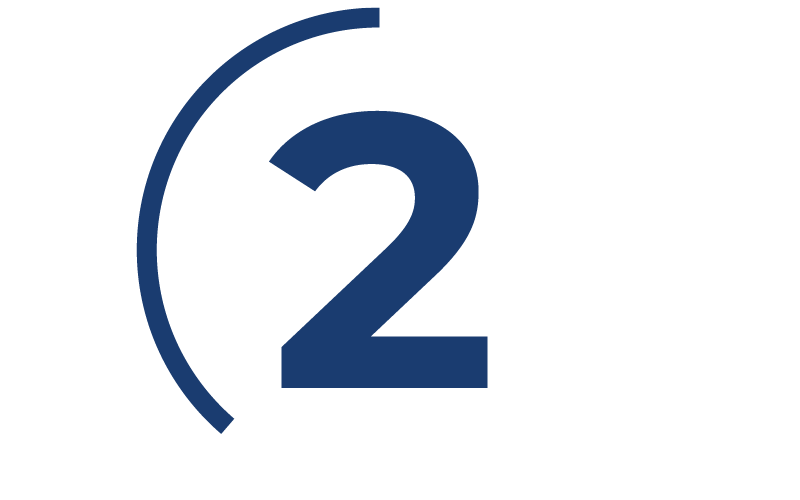
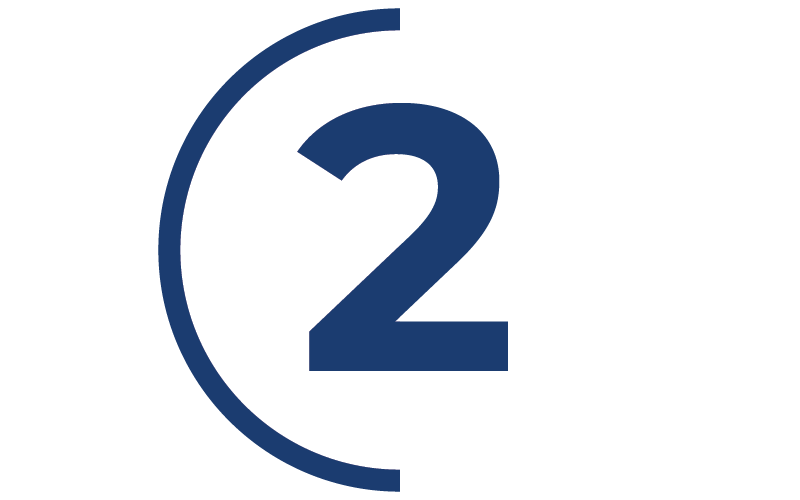
Fixed assets so they're out of 4 and fixed some media queries

diff --git a/src/components/NewClient/Confidence/index.js b/src/components/NewClient/Confidence/index.js
@@ -1,10 +1,10 @@
 import styled from "styled-components";
 
-import Score5 from "../../../images/Score5.png";
 import Score4 from "../../../images/Score4.png";
 import Score3 from "../../../images/Score3.png";
 import Score2 from "../../../images/Score2.png";
 import Score1 from "../../../images/Score1.png";
+import Score0 from "../../../images/Score0.png";
 
 const ConfidenceDiv = styled.div`
   padding-top: 1em;
@@ -21,6 +21,7 @@ const ConfidenceDiv = styled.div`
 
   & h1 {
     margin-top: 0;
+    margin-bottom: 0;
     padding-top: 1em;
     font-size: 1.75em;
   }
@@ -45,7 +46,7 @@ const FeedbackText = styled.div`
     font-size: 1.5em;
   }
 
-  @media only screen and (min-width: 1250px) {
+  @media only screen and (min-width: 1400px) {
     & p {
       margin: 0;
       font-size: 2em;
@@ -56,24 +57,24 @@ const FeedbackText = styled.div`
 const Confidence = ({ score, confidence }) => {
   var feedback = "";
   var img;
-  if (score === "5") {
+  if (score === "4") {
     feedback =
       "We recommend that you consult with a neurologist about your symptoms";
-    img = Score5;
-  } else if (score === "4") {
-    feedback = "";
     img = Score4;
   } else if (score === "3") {
-    feedback =
-      "You are displaying mild symptoms. It may be time to consult with a neurologist.";
+    feedback = "";
     img = Score3;
   } else if (score === "2") {
     feedback =
-      "You are displaying minimal symptoms. Please continue to track your symptoms.";
+      "You are displaying mild symptoms. It may be time to consult with a neurologist.";
     img = Score2;
+  } else if (score === "1") {
+    feedback =
+      "You are displaying minimal symptoms. Please continue to track your symptoms.";
+    img = Score1;
   } else {
     feedback = "";
-    img = Score1;
+    img = Score0;
   }
 
   return (

diff --git a/src/components/NewClient/index.js b/src/components/NewClient/index.js
@@ -81,7 +81,7 @@ const Graph = styled.div`
   display: flex;
   justify-content: center;
   align-items: center;
-  height: 45vh;
+  height: 43vh;
   box-shadow: rgba(50, 50, 93, 0.25) 0px 6px 12px -2px,
     rgba(0, 0, 0, 0.3) 0px 3px 7px -3px;
 `;
@@ -154,7 +154,7 @@ const NewClient = () => {
       </LogoBar>
       <Content>
         <SideBar>
-          <Confidence score="3" confidence="78" />
+          <Confidence score="4" confidence="78" />
           <ShareResults />
         </SideBar>
         <Data>

diff --git a/src/components/NewClient/ShareResults/index.js b/src/components/NewClient/ShareResults/index.js
@@ -14,8 +14,6 @@ const ShareDiv = styled.div`
     margin: 0;
     padding-bottom: 0.25em;
   }
-
-  
 `;
 
 const Buttons = styled.div`
@@ -40,12 +38,12 @@ const Buttons = styled.div`
     background-color: #D7D7D7;
   }
 
-  @media only screen and (min-width: 1250px) {
+  @media only screen and (min-width: 1030px) and (max-width: 1366px) {
     & button {
       padding-top: 1em;
       padding-bottom: 1em;
-    }
-  }
+    }  
+  }  
 `;
 
 const ShareResults = () => {

diff --git a/src/components/NewClient/SubScore/index.js b/src/components/NewClient/SubScore/index.js
@@ -26,6 +26,7 @@ const SubScoreDiv = styled.div`
 
   & p {
     margin-top: 0;
+    margin-bottom: 0.25em;
     color: #878787;
   }
 `;
